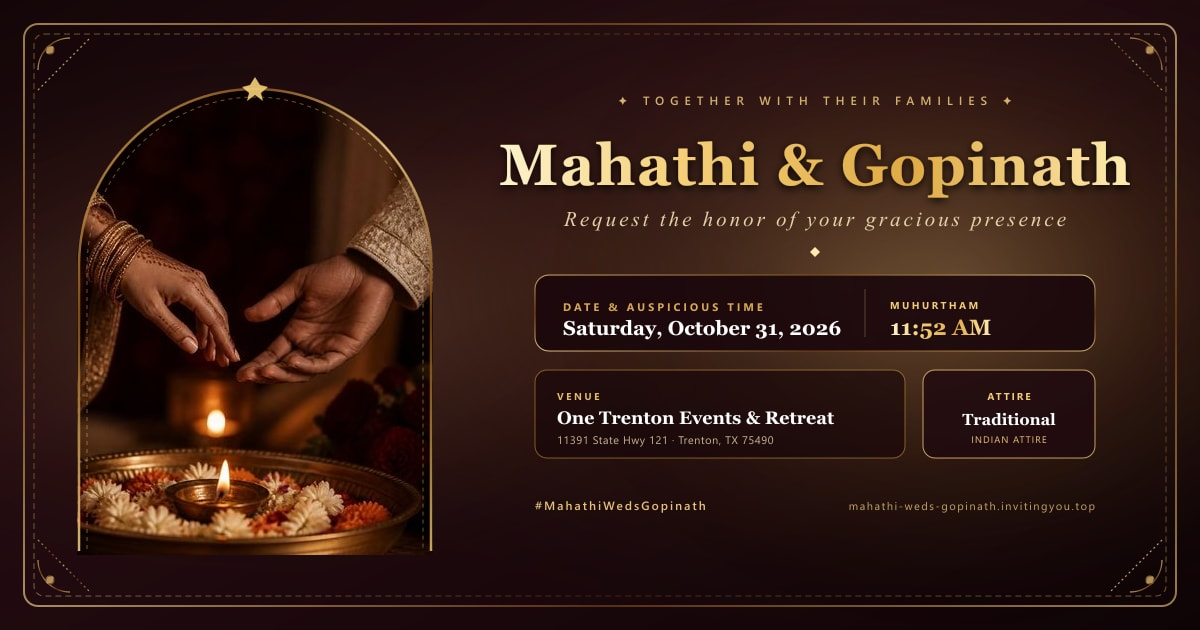
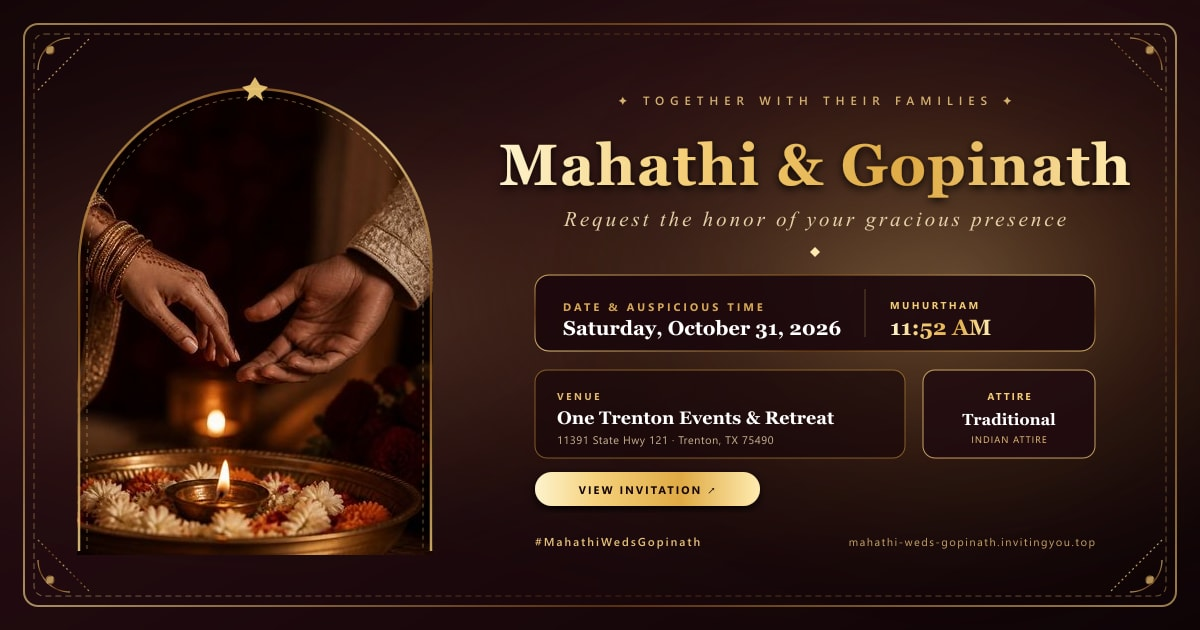
feat(seo): add call-to-action to OG image and route to globally accessible CDN URL

diff --git a/scripts/generate-og.js b/scripts/generate-og.js
@@ -263,15 +263,23 @@ async function generateOG() {
       </text>
     </g>
 
+    <!-- Call to Action Button (Resolves "Image is missing conversion text" warning) -->
+    <g transform="translate(535, 472)">
+      <rect x="0" y="0" width="225" height="34" rx="17" fill="url(#goldText)" filter="url(#goldShadow)" />
+      <text x="112" y="22" text-anchor="middle" class="sans" font-size="11" font-weight="700" letter-spacing="2" fill="#150508">
+        VIEW INVITATION ↗
+      </text>
+    </g>
+
     <!-- Bottom Footer Ribbon -->
-    <g transform="translate(535, 480)">
+    <g transform="translate(535, 522)">
       <line x1="0" y1="0" x2="560" y2="0" stroke="url(#goldRule)" stroke-width="1" />
       
-      <text x="0" y="30" class="sans" font-size="12" font-weight="600" letter-spacing="2" fill="#e8c279">
+      <text x="0" y="24" class="sans" font-size="11.5" font-weight="600" letter-spacing="2" fill="#e8c279">
         #MahathiWedsGopinath
       </text>
 
-      <text x="560" y="30" text-anchor="end" class="sans" font-size="11" font-weight="500" letter-spacing="1.5" fill="#caa568">
+      <text x="560" y="24" text-anchor="end" class="sans" font-size="11" font-weight="500" letter-spacing="1.5" fill="#caa568">
         mahathi-weds-gopinath.invitingyou.top
       </text>
     </g>

diff --git a/src/routes/index.tsx b/src/routes/index.tsx
@@ -26,7 +26,8 @@ import { VenueMap } from "@/components/sections/VenueMap";
 import { ScrollTrigger, useGSAP } from "@/lib/motion";
 
 const SITE_URL = "https://mahathi-weds-gopinath.invitingyou.top";
-const OG_IMAGE_URL = `${SITE_URL}/og-image.jpg`;
+const OG_IMAGE_URL =
+  "https://raw.githubusercontent.com/muhsina-ov/mahathi-weds-gopinath/main/public/og-image.jpg";
 const SITE_TITLE = "Mahathi & Gopinath — Wedding Invitation";
 // Google SEO description (target: 140–160 chars) -> exactly 150 chars
 const META_DESCRIPTION =

diff --git a/src/routes/__root.tsx b/src/routes/__root.tsx
@@ -69,7 +69,8 @@ function ErrorComponent({ error, reset }: { error: Error; reset: () => void }) {
 }
 
 const SITE_URL = "https://mahathi-weds-gopinath.invitingyou.top";
-const OG_IMAGE_URL = `${SITE_URL}/og-image.jpg`;
+const OG_IMAGE_URL =
+  "https://raw.githubusercontent.com/muhsina-ov/mahathi-weds-gopinath/main/public/og-image.jpg";
 const SITE_TITLE = "Mahathi & Gopinath — Wedding Invitation";
 // Google SEO description (target: 140–160 chars) -> exactly 150 chars
 const META_DESCRIPTION =
